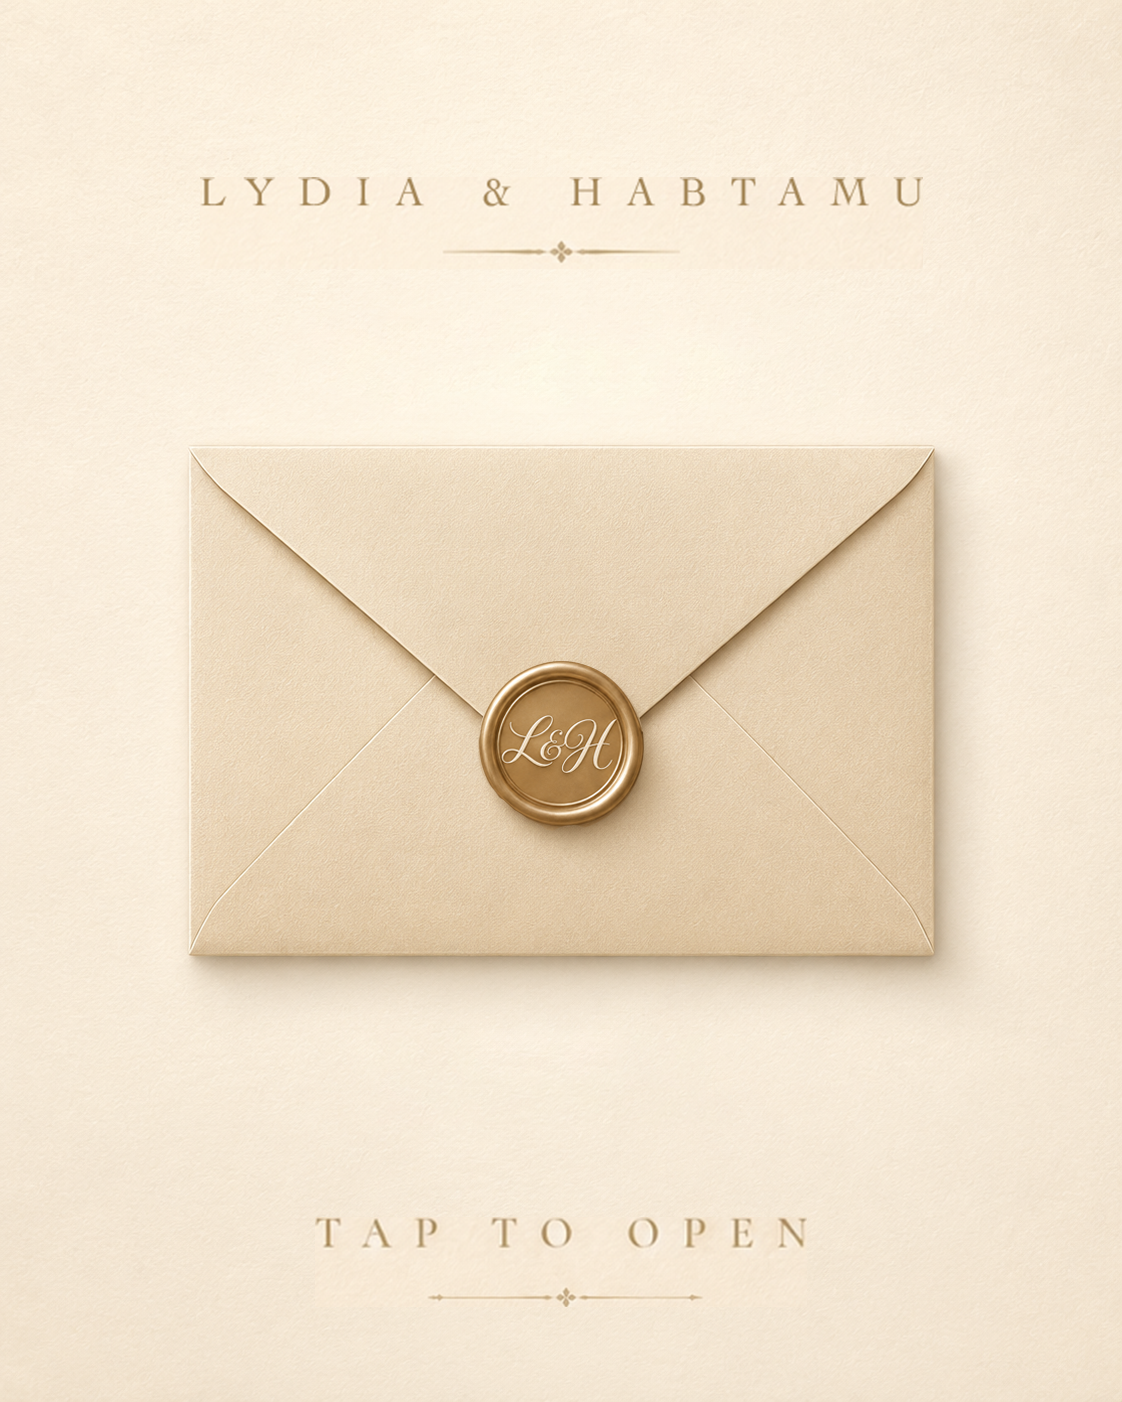
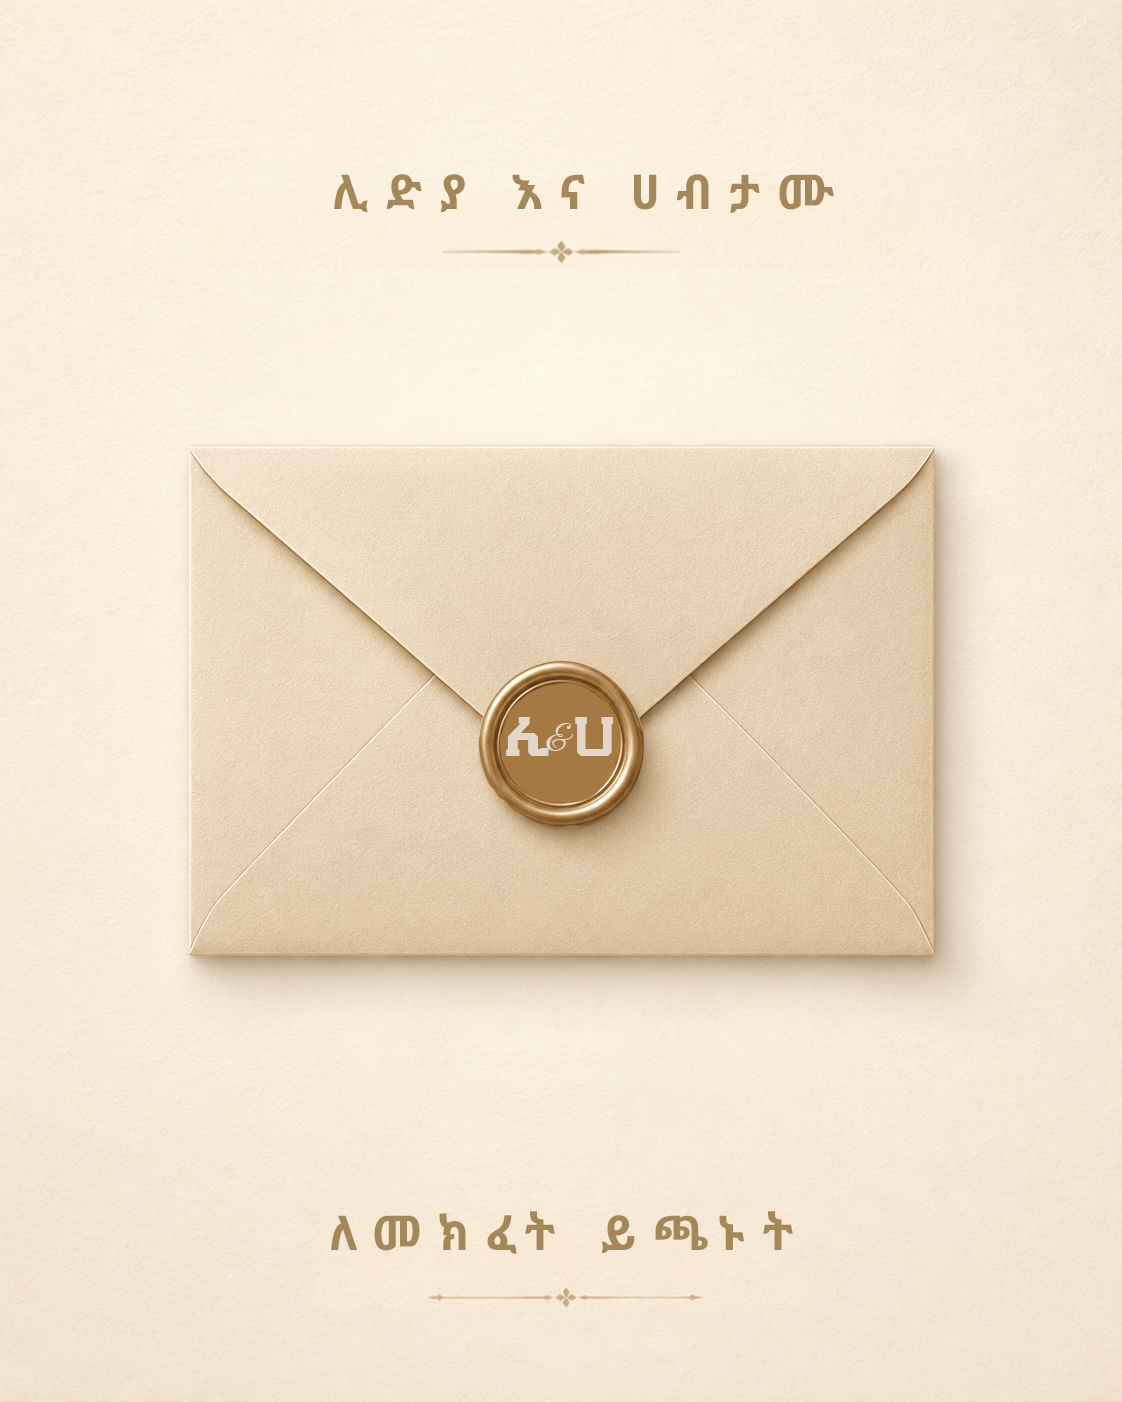
Fix gallery thumbnails and update envelope translations

diff --git a/assets/guest-gallery.js b/assets/guest-gallery.js
@@ -108,9 +108,9 @@
       if (!photos[index]) return;
       selected = index;
       const photo = photos[index];
-      download.href = photo.src + '&download=1';
+      download.href = originalUrl(photo, true);
       const version = ++loadVersion;
-      image.src = photo.previewSrc;
+      image.src = previewUrl(photo);
       image.alt = component.copy().photoAltFrom(date(photo.createdAt));
       imageStatus.textContent = words().full;
       retry.hidden = true;
@@ -130,7 +130,7 @@
         imageStatus.textContent = words().error;
         retry.hidden = false;
       };
-      full.src = photo.src;
+      full.src = originalUrl(photo);
     };
     for (const modal of [dialog, viewer]) {
       modal.querySelector('[data-close]').addEventListener('click', () => modal.close());
@@ -169,6 +169,16 @@
       device = crypto.randomUUID ? crypto.randomUUID() : String(Date.now()) + Math.random().toString(16).slice(2);
       try { localStorage.setItem(key, device); } catch {}
     }
+    const withVersion = (url, photo) => {
+      const joiner = url.includes('?') ? '&' : '?';
+      return url + joiner + 'v=' + encodeURIComponent(photo.createdAt || photo.id || '1');
+    };
+    const previewUrl = photo => withVersion(photo.previewSrc || photo.src, photo);
+    const originalUrl = (photo, download = false) => {
+      const url = photo.src || photo.previewSrc;
+      const joiner = url.includes('?') ? '&' : '?';
+      return withVersion(download ? url + joiner + 'download=1' : url, photo);
+    };
     const cardFor = (photo, index, allowDelete) => {
       const card = document.createElement('article');
       card.className = 'guest-photo-card';
@@ -178,11 +188,18 @@
       button.setAttribute('aria-label', words().view + ' ' + (index + 1));
       const thumb = document.createElement('img');
       thumb.alt = component.copy().photoAltFrom(date(photo.createdAt));
-      thumb.loading = 'lazy';
+      thumb.loading = index < 6 ? 'eager' : 'lazy';
+      if (index < 3) thumb.fetchPriority = 'high';
       thumb.decoding = 'async';
       thumb.draggable = false;
-      thumb.src = photo.previewSrc;
+      let triedOriginal = false;
+      thumb.src = previewUrl(photo);
       thumb.addEventListener('error', () => {
+        if (!triedOriginal) {
+          triedOriginal = true;
+          thumb.src = originalUrl(photo);
+          return;
+        }
         thumb.hidden = true;
         const note = document.createElement('span');
         note.className = 'gallery-photo-error';
@@ -190,7 +207,13 @@
         button.append(note);
       }, { once: true });
       button.append(thumb);
-      button.addEventListener('click', () => showPhoto(photos.findIndex(item => item.id === photo.id)));
+      const open = () => showPhoto(photos.findIndex(item => item.id === photo.id));
+      button.addEventListener('click', open);
+      card.addEventListener('click', event => {
+        if (event.target.closest('.guest-photo-delete')) return;
+        if (event.target.closest('.guest-photo-view')) return;
+        open();
+      });
       const meta = document.createElement('div');
       meta.className = 'guest-photo-meta';
       meta.textContent = date(photo.createdAt);

diff --git a/assets/guest-gallery.css b/assets/guest-gallery.css
@@ -1,9 +1,9 @@
-.guest-photo-card { opacity: 1; transform: none; filter: none; flex-basis: min(76vw, 360px); }
-.guest-photo-card img { object-fit: contain; filter: none; background: #F1E7D3; box-sizing: border-box; }
+.guest-photo-card { opacity: 1; transform: none; filter: none; flex-basis: min(76vw, 360px); cursor: zoom-in; }
+.guest-photo-card img { width: 100%; aspect-ratio: 4 / 5; object-fit: contain; filter: none; background: #F1E7D3; box-sizing: border-box; display: block; }
 .guest-photo-card img[hidden] { display: none; }
 .guest-gallery-track { width: 100%; padding: 20px clamp(16px, 2vw, 28px) 24px; gap: clamp(16px, 2vw, 24px); scroll-padding-inline: clamp(16px, 2vw, 28px); scroll-snap-type: x proximity; cursor: grab; }
 .guest-gallery-track .guest-photo-card { scroll-snap-align: start; }
-.guest-gallery-track .guest-photo-view { cursor: grab; }
+.guest-gallery-track .guest-photo-view { cursor: zoom-in; }
 .guest-gallery-track img { user-select: none; -webkit-user-drag: none; }
 .guest-gallery-track.is-dragging { scroll-snap-type: none; scroll-behavior: auto; user-select: none; }
 .guest-gallery-track.is-dragging, .guest-gallery-track.is-dragging .guest-photo-view { cursor: grabbing; }

diff --git a/index.html b/index.html
@@ -5,7 +5,7 @@
 <meta name="viewport" content="width=device-width, initial-scale=1">
 <title>Lydia &amp; Habtamu &mdash; Wedding Ceremony</title>
 <script src="./support.js"></script>
-<script src="assets/guest-gallery.js?v=3"></script>
+<script src="assets/guest-gallery.js?v=6"></script>
 </head>
 <body>
 <x-dc>
@@ -401,7 +401,7 @@
       .guest-gallery-arrow.is-visible { display: none; }
     }
   </style>
-  <link rel="stylesheet" href="assets/guest-gallery.css?v=4">
+  <link rel="stylesheet" href="assets/guest-gallery.css?v=6">
 </helmet>
 
 <div style="position: relative; overflow: clip; background: #F1E7D3; color: #4A4036; font-family: 'Cormorant Garamond', serif; min-height: 100vh;">
